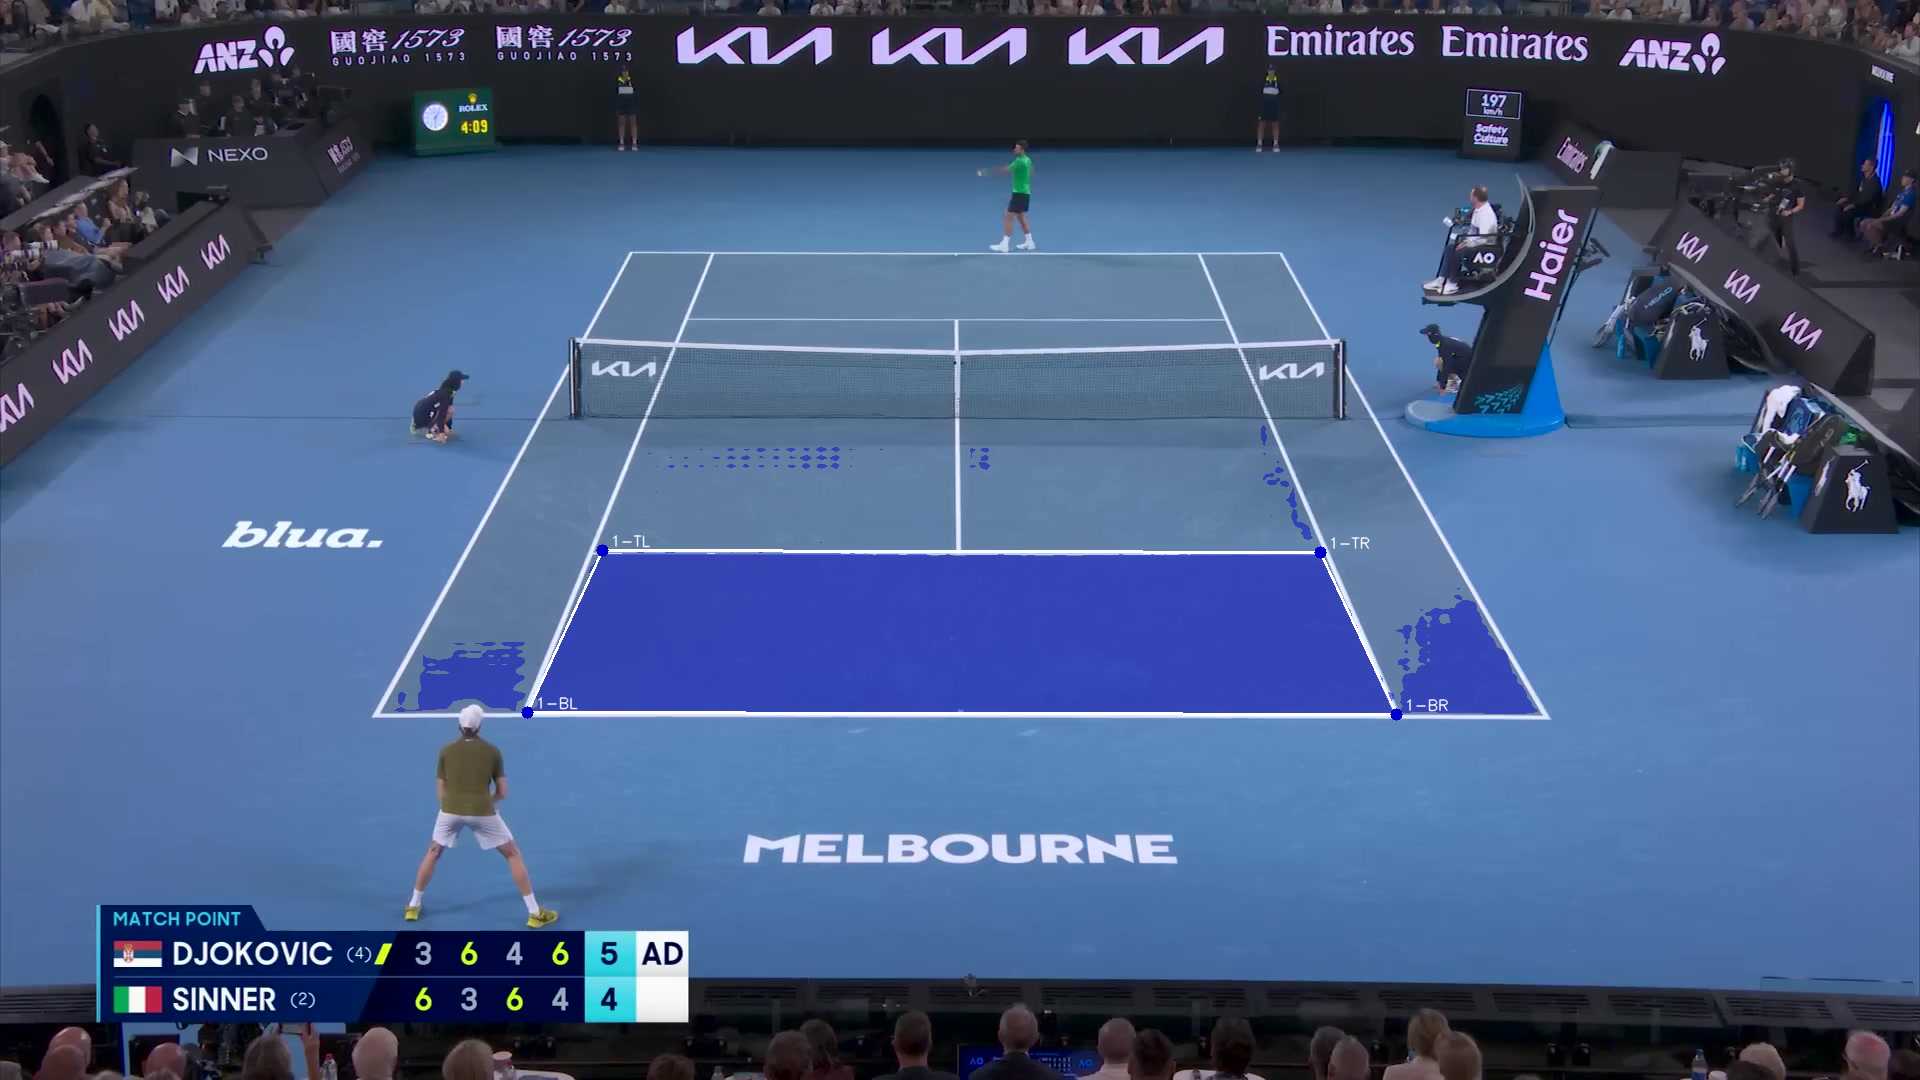
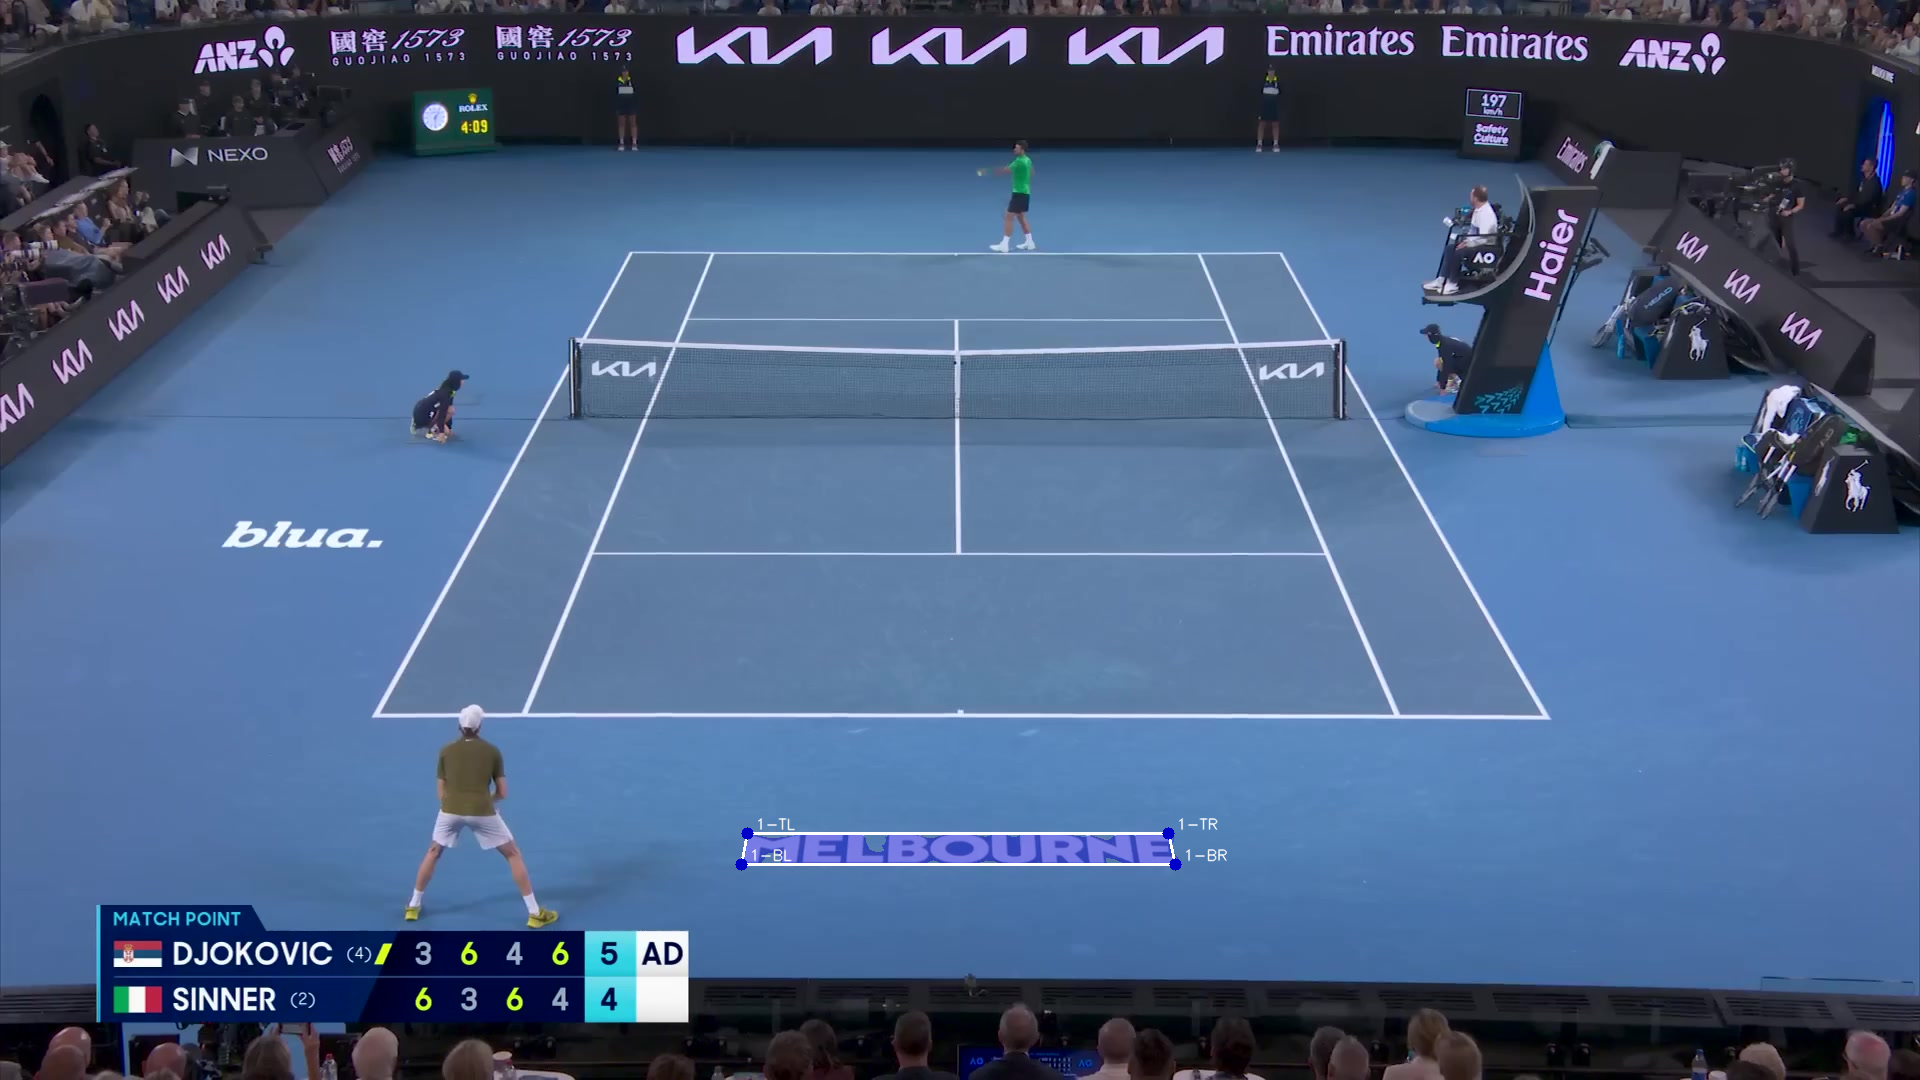
get the long and short axis aligned

Changed region(s): [[0.2188, 0.4278, 0.8125, 0.6722], [0.375, 0.7639, 0.625, 0.825], [0.4062, 0.3972, 0.4375, 0.4278]]

diff --git a/banner_segment.py b/banner_segment.py
@@ -181,11 +181,23 @@ def run_sam2(frame_bgr: np.ndarray, click_groups: list[list[tuple[int, int]]],
 # Perspective-aware quadrilateral fitting
 # ---------------------------------------------------------------------------
 
-def _fit_line_pts(pts: np.ndarray):
-    """Fit a line to 2D points. Returns (point_on_line, unit_direction)."""
-    vx, vy, cx, cy = cv2.fitLine(pts.reshape(-1, 1, 2).astype(np.float32),
-                                  cv2.DIST_L2, 0, 0.01, 0.01).flatten()
-    return np.array([cx, cy], dtype=np.float64), np.array([vx, vy], dtype=np.float64)
+def _fit_line_pts(pts: np.ndarray, weights: np.ndarray | None = None):
+    """Fit a line to 2D points. Returns (point_on_line, unit_direction).
+
+    If *weights* is given, uses weighted PCA instead of cv2.fitLine.
+    """
+    if weights is None:
+        vx, vy, cx, cy = cv2.fitLine(pts.reshape(-1, 1, 2).astype(np.float32),
+                                      cv2.DIST_L2, 0, 0.01, 0.01).flatten()
+        return np.array([cx, cy], dtype=np.float64), np.array([vx, vy], dtype=np.float64)
+
+    w = weights / weights.sum()
+    centroid = (pts * w[:, None]).sum(axis=0)
+    centered = pts - centroid
+    cov = (centered * w[:, None]).T @ centered
+    eigvals, eigvecs = np.linalg.eigh(cov)
+    direction = eigvecs[:, -1].astype(np.float64)
+    return centroid.astype(np.float64), direction
 
 
 def _line_intersect(p1, d1, p2, d2):
@@ -257,11 +269,29 @@ def fit_quadrilateral(mask: np.ndarray, axis: str = "short") -> np.ndarray | Non
         group_a = pts[left_idx]
         group_b = pts[right_idx]
         labels = ("Left", "Right")
+
+        # Hann-window weights: middle of edge → 1, top/bottom → 0
+        def _hann_weights(grp):
+            s = (grp - center) @ short_dir
+            t = (s - s.min()) / max(s.max() - s.min(), 1e-9)
+            return np.clip(0.5 * (1 - np.cos(2 * np.pi * t)), 0.01, 1.0)
+
+        weights_a = _hann_weights(group_a)
+        weights_b = _hann_weights(group_b)
     else:
         proj_short = rel @ short_dir
         group_a = pts[proj_short >= 0]
         group_b = pts[proj_short < 0]
         labels = ("Top", "Bottom")
+
+        # Hann weights along the long axis to downweight left/right corners
+        def _hann_weights_long(grp):
+            s = (grp - center) @ long_dir
+            t = (s - s.min()) / max(s.max() - s.min(), 1e-9)
+            return np.clip(0.5 * (1 - np.cos(2 * np.pi * t)), 0.01, 1.0)
+
+        weights_a = _hann_weights_long(group_a)
+        weights_b = _hann_weights_long(group_b)
 
     print(f"  {labels[0]} edge: {len(group_a)} pts, {labels[1]} edge: {len(group_b)} pts")
 
@@ -269,8 +299,8 @@ def fit_quadrilateral(mask: np.ndarray, axis: str = "short") -> np.ndarray | Non
         print("  [warn] Not enough points, falling back to minAreaRect")
         return cv2.boxPoints(rect).astype(np.float32)
 
-    pt_a, dir_a = _fit_line_pts(group_a)
-    pt_b, dir_b = _fit_line_pts(group_b)
+    pt_a, dir_a = _fit_line_pts(group_a, weights_a)
+    pt_b, dir_b = _fit_line_pts(group_b, weights_b)
 
     if dir_a @ dir_b < 0:
         dir_b = -dir_b
@@ -444,6 +474,7 @@ OBJ_COLORS = [
 def visualize(frame: np.ndarray,
               masks: dict[int, np.ndarray],
               corners_map: dict[int, np.ndarray],
+              composited: np.ndarray | None = None,
               save_path: str = "banner_result.png"):
     vis = frame.copy()
 
@@ -468,31 +499,19 @@ def visualize(frame: np.ndarray,
     cv2.imwrite(save_path, vis)
     print(f"  Saved: {save_path}")
 
-    # Warped top-down views
-    warpeds = []
-    for obj_id in sorted(corners_map):
-        c = corners_map[obj_id]
-        dst_w, dst_h = 300, 450
-        dst = np.array([[0, 0], [dst_w, 0], [dst_w, dst_h], [0, dst_h]], dtype=np.float32)
-        H, _ = cv2.findHomography(c, dst)
-        if H is not None:
-            warpeds.append((obj_id, cv2.warpPerspective(frame, H, (dst_w, dst_h))))
-
-    ncols = 1 + len(warpeds)
-    ratios = [3] + [1] * len(warpeds)
-    fig, axes = plt.subplots(1, ncols, figsize=(8 + 4 * len(warpeds), 6),
-                             gridspec_kw={"width_ratios": ratios})
+    ncols = 2 if composited is not None else 1
+    fig, axes = plt.subplots(1, ncols, figsize=(7 * ncols, 6))
     if ncols == 1:
         axes = [axes]
 
     axes[0].imshow(cv2.cvtColor(vis, cv2.COLOR_BGR2RGB))
-    axes[0].set_title(f"Masks + parallelogram fit ({len(corners_map)} objects)")
+    axes[0].set_title(f"Masks + quad fit ({len(corners_map)} objects)")
     axes[0].axis("off")
 
-    for i, (oid, warped) in enumerate(warpeds):
-        axes[1 + i].imshow(cv2.cvtColor(warped, cv2.COLOR_BGR2RGB))
-        axes[1 + i].set_title(f"Obj {oid} top-down")
-        axes[1 + i].axis("off")
+    if composited is not None:
+        axes[1].imshow(cv2.cvtColor(composited, cv2.COLOR_BGR2RGB))
+        axes[1].set_title("Composited logo")
+        axes[1].axis("off")
 
     plt.tight_layout()
     plt.savefig(save_path.rsplit(".", 1)[0] + "_full.png", dpi=150, bbox_inches="tight")
@@ -552,14 +571,14 @@ def main():
             for lbl, pt in zip(["TL", "TR", "BR", "BL"], corners):
                 print(f"    {lbl}: ({int(pt[0])}, {int(pt[1])})")
 
-    print(f"  Visualizing ({len(corners_map)} parallelograms) …", flush=True)
-    visualize(frame, masks, corners_map, save_path=args.save)
-
+    composited = None
     if args.logo and corners_map:
         print("[5/5] Compositing logo …", flush=True)
         first_corners = next(iter(corners_map.values()))
-        composite_logo(frame, first_corners, args.logo)
+        composited = composite_logo(frame, first_corners, args.logo)
 
+    print(f"  Visualizing ({len(corners_map)} parallelograms) …", flush=True)
+    visualize(frame, masks, corners_map, composited=composited, save_path=args.save)
     print("Done.")
 
 
